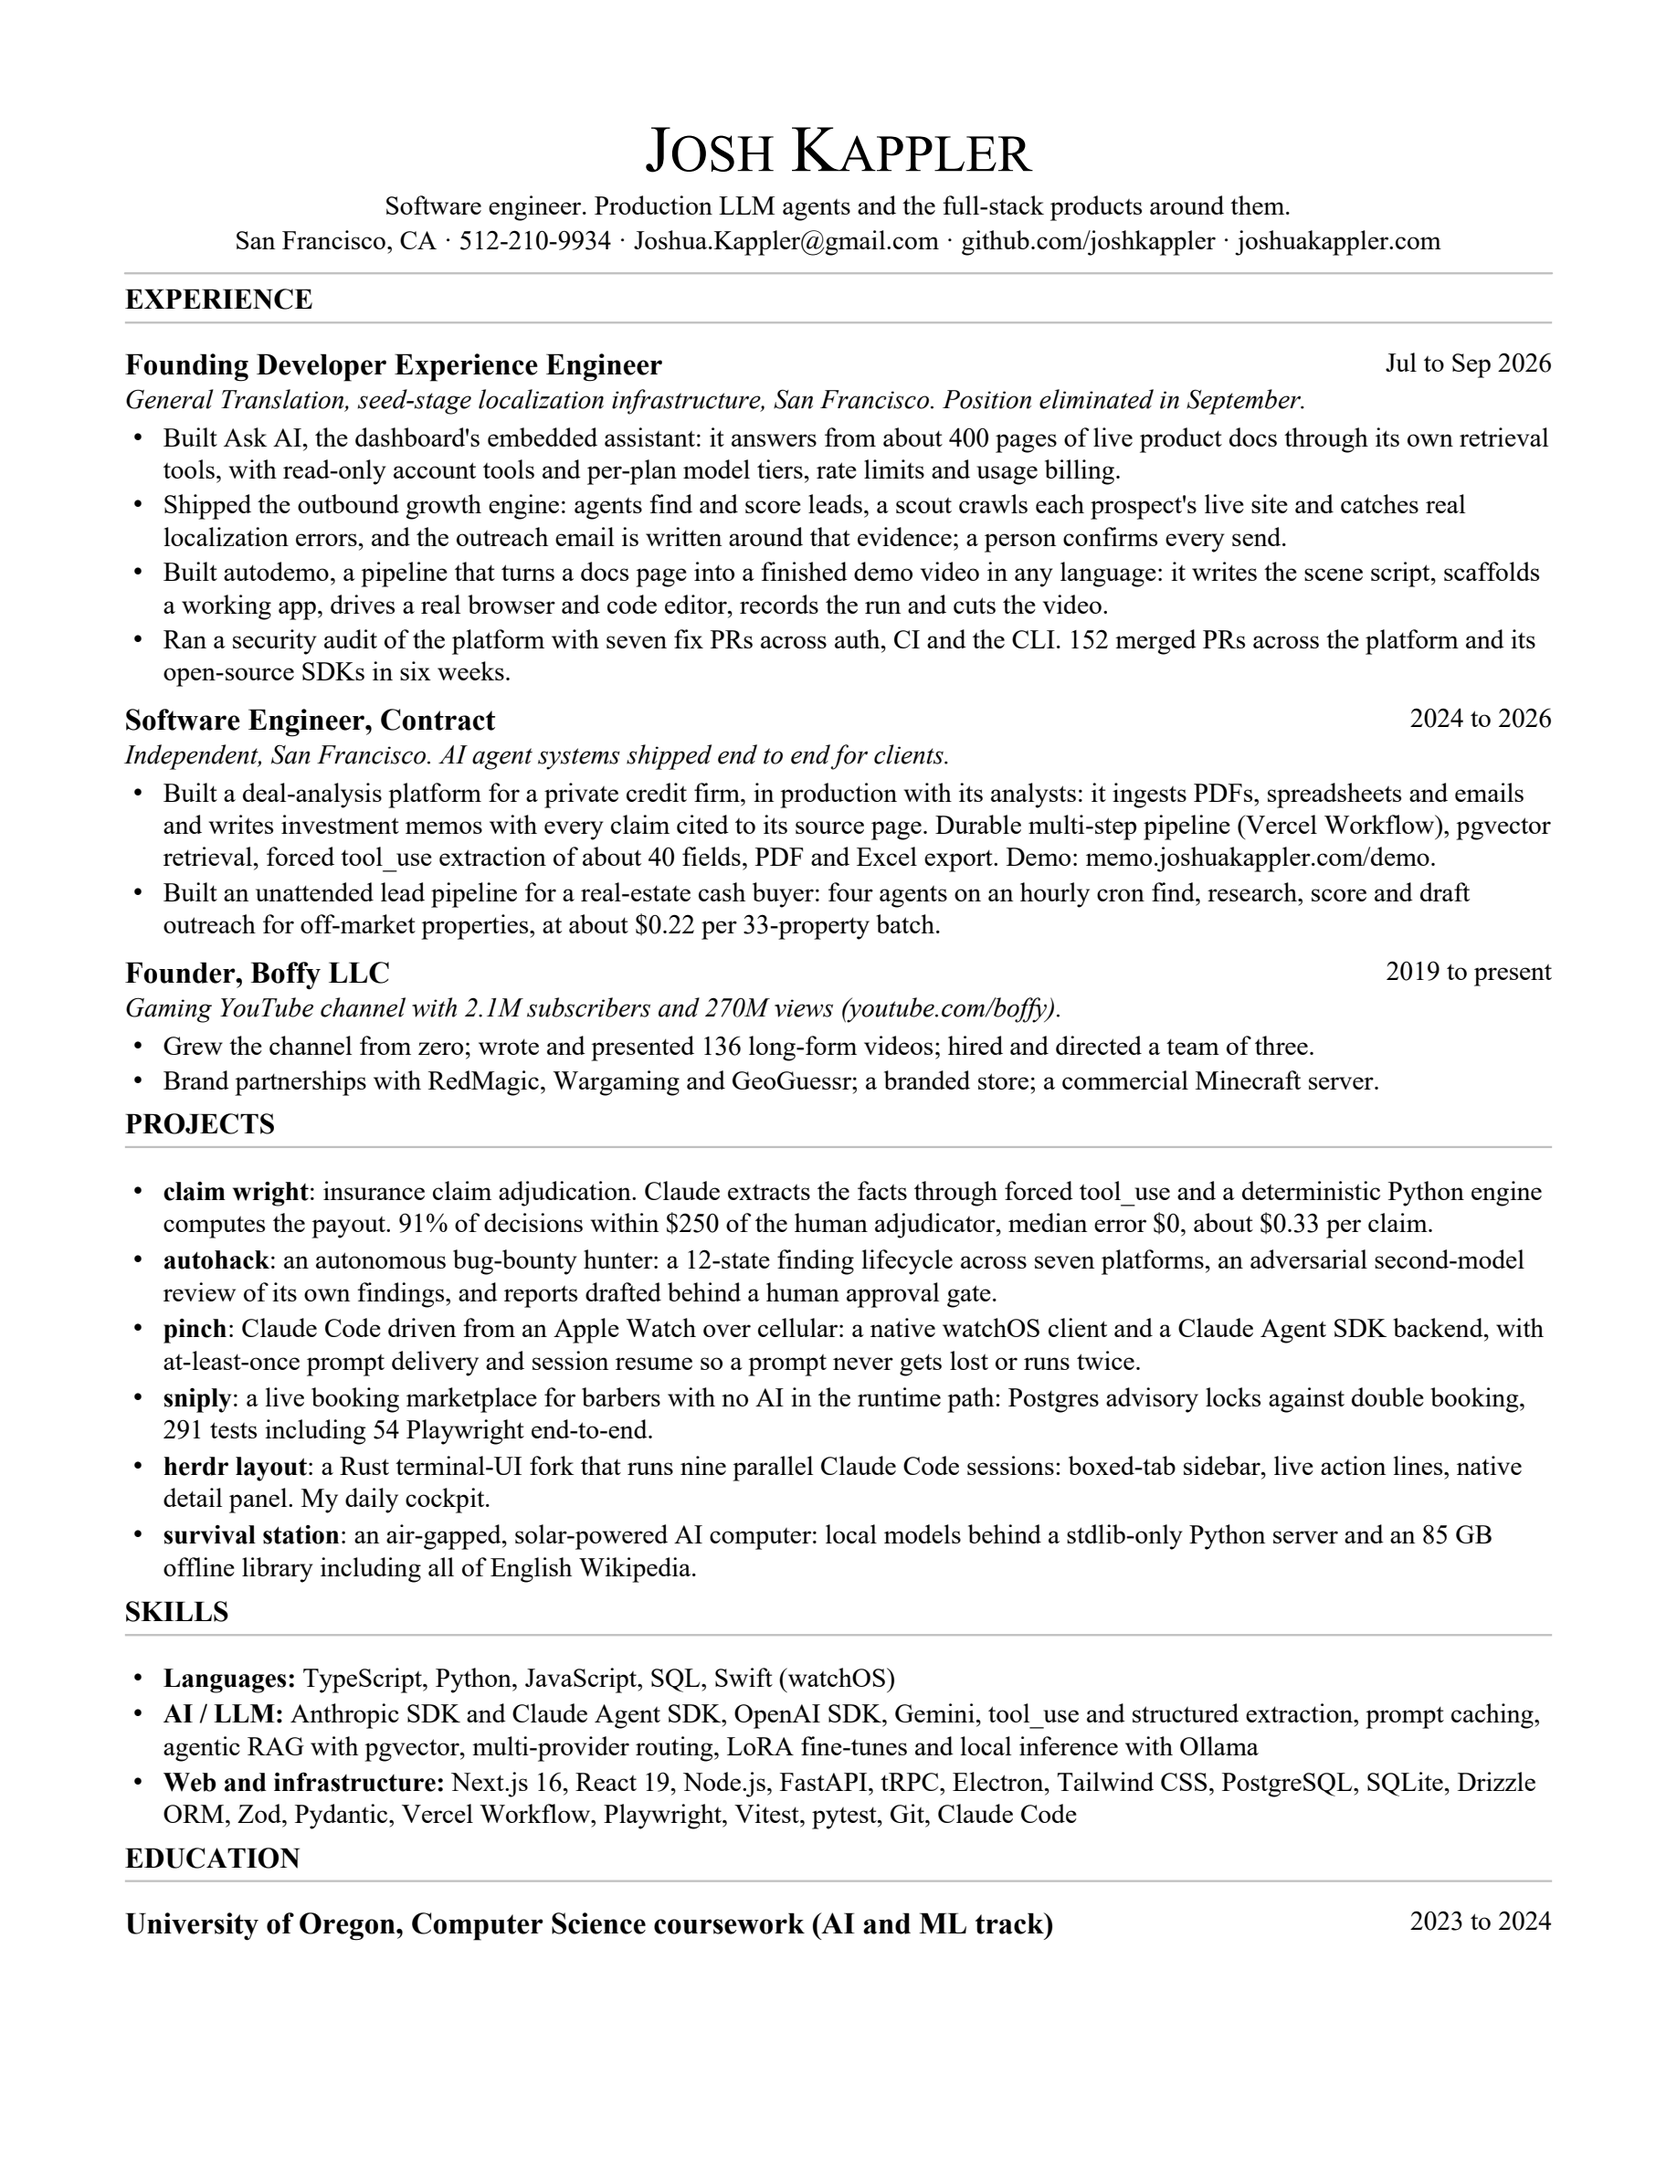
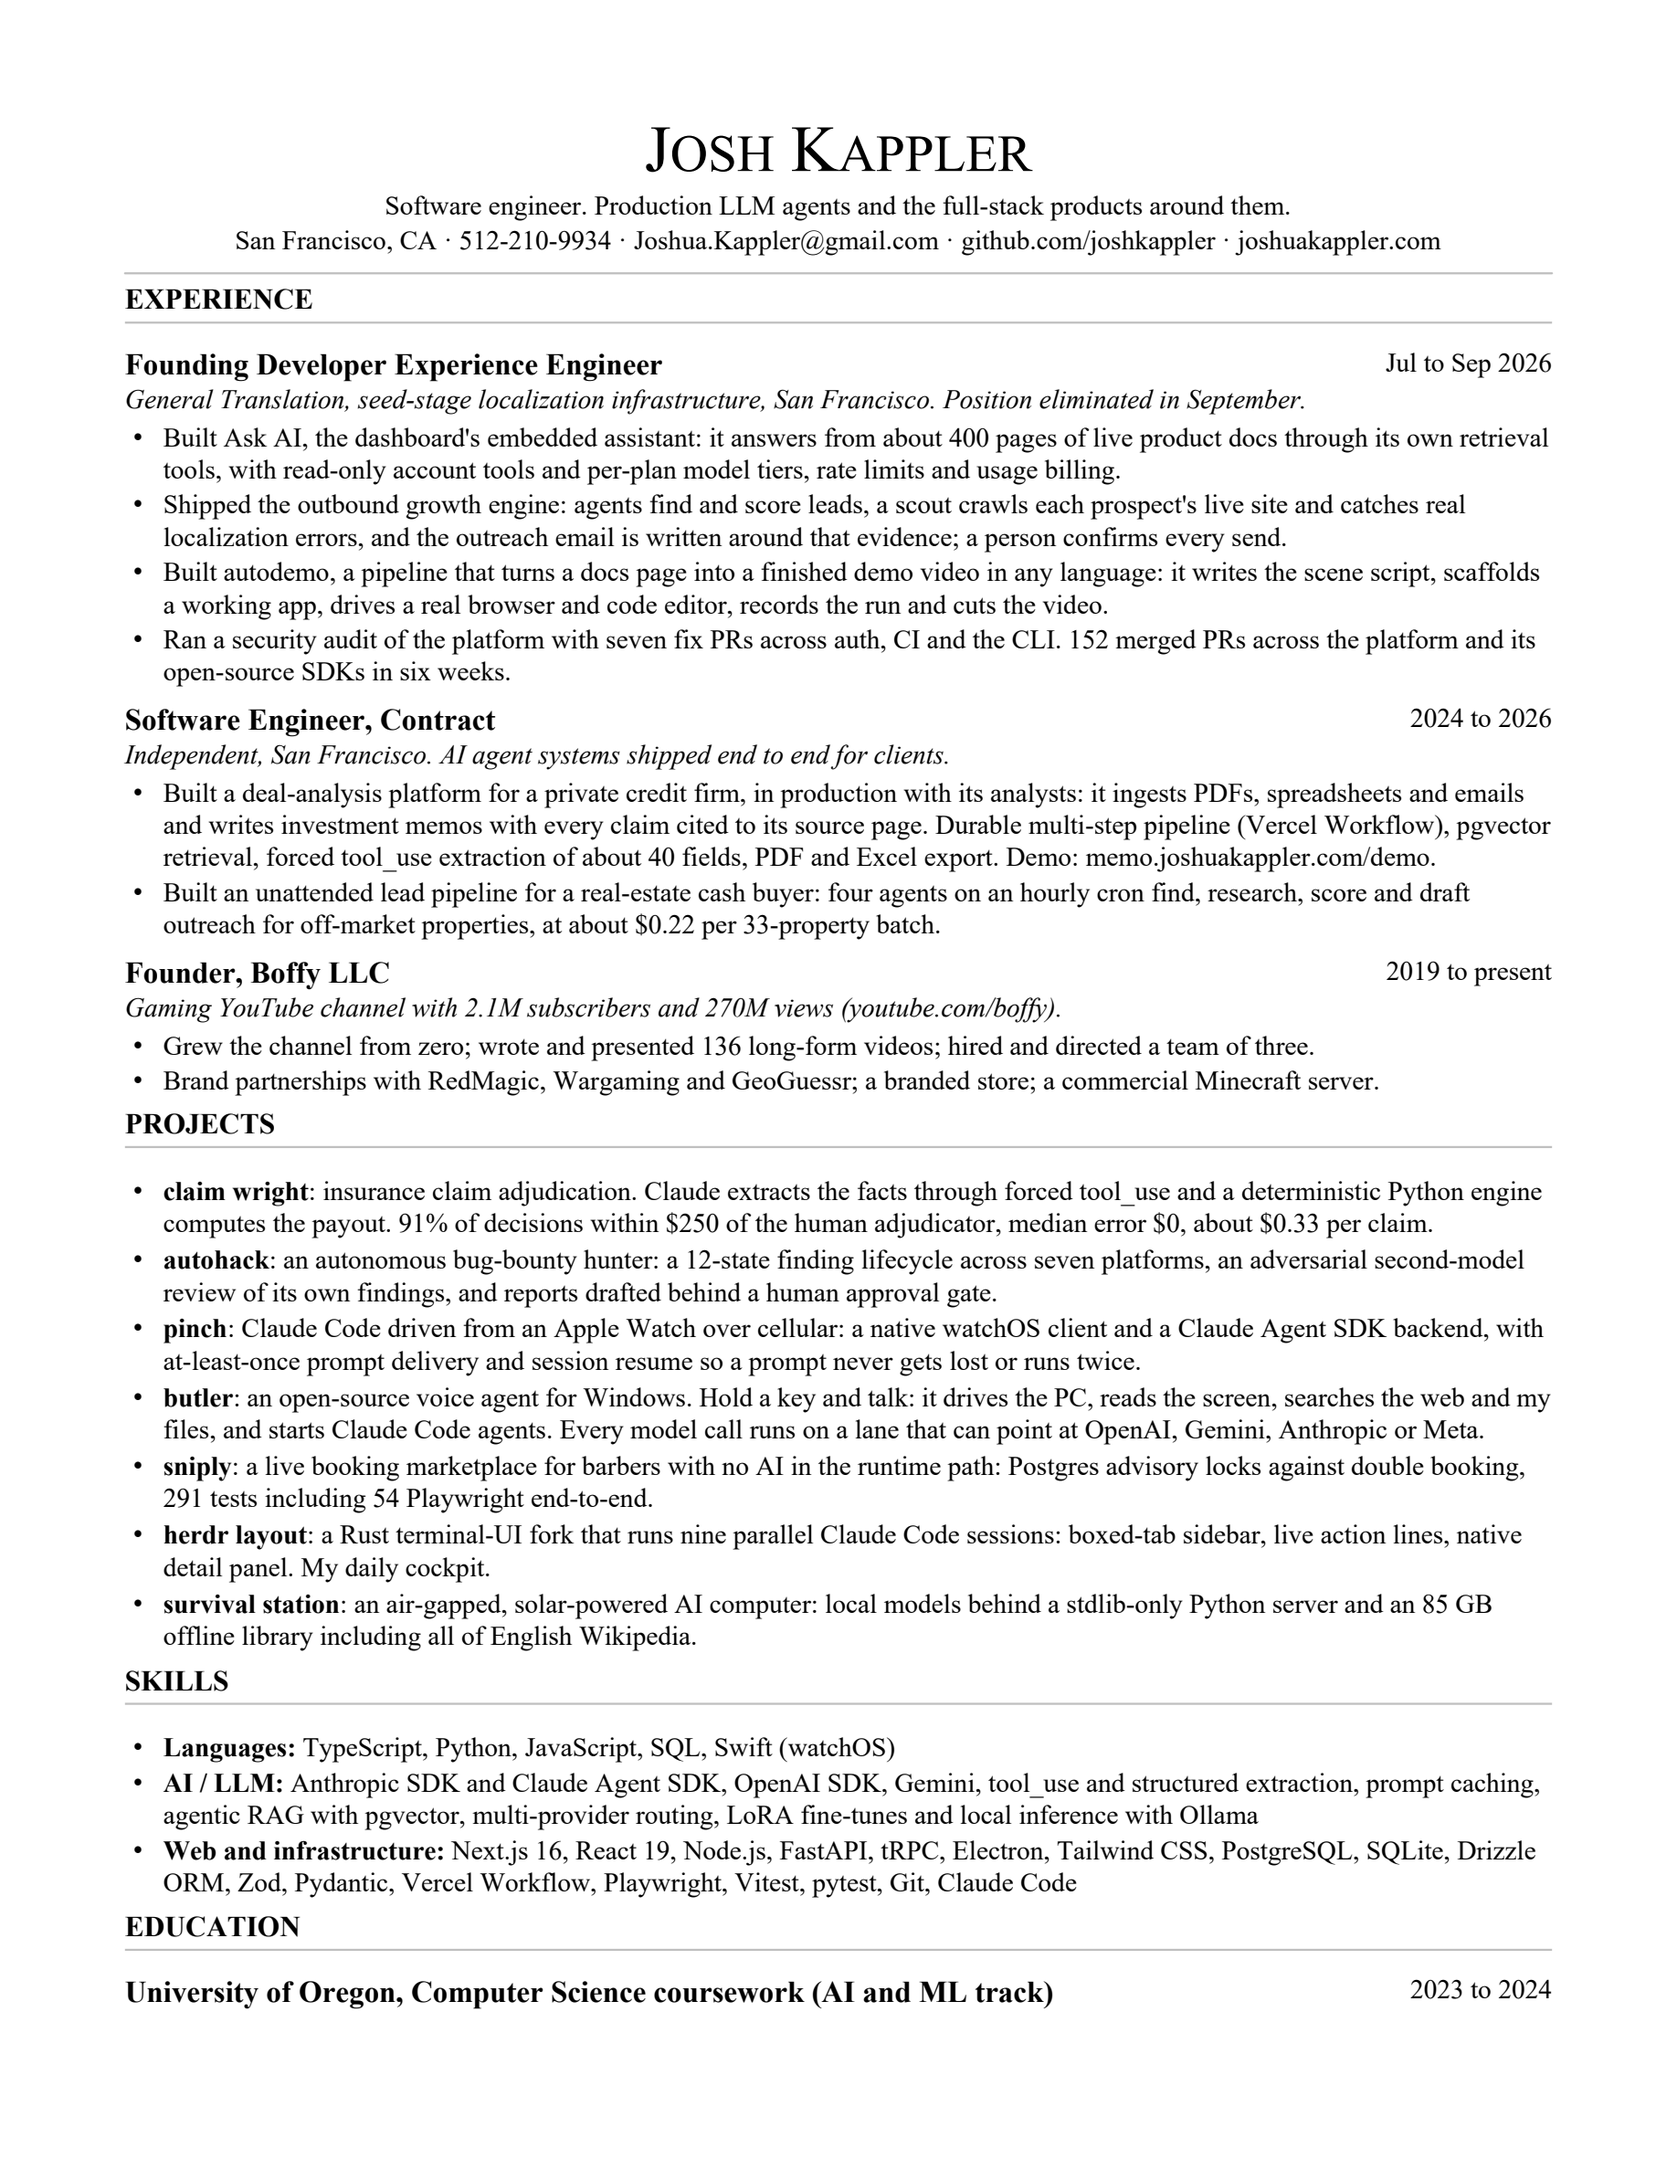
Add butler to projects; resume lists it too

Changed region(s): [[0.0621, 0.6229, 0.9314, 0.9343]]

diff --git a/src/app/page.tsx b/src/app/page.tsx
@@ -58,6 +58,11 @@ const projects: Item[] = [
     line: "Claude Code, driven from an Apple Watch over a cellular connection. The agent itself runs on my Mac behind an authenticated tunnel; the watch is a native watchOS client: dictate a prompt, pinch to send it, roll the crown to approve diffs, shake your wrist to stop it.",
   },
   {
+    name: "butler",
+    href: "https://github.com/JoshKappler/butler",
+    line: "A voice agent for my Windows desktop, open source. Hold a key and talk: it opens apps, reads the screen, searches the web and my files, and starts Claude Code agents. Each job can run on OpenAI, Gemini, Anthropic or Meta, and it all lives in a liquid-glass Dynamic Island.",
+  },
+  {
     name: "fleetview",
     href: "https://github.com/JoshKappler/claude-control-center",
     line: "A terminal cockpit that runs up to eight Claude agents in parallel and keeps every machine I own in sync. The agents survive crashes and reboots. Plain Node, raw ANSI, zero npm dependencies.",
